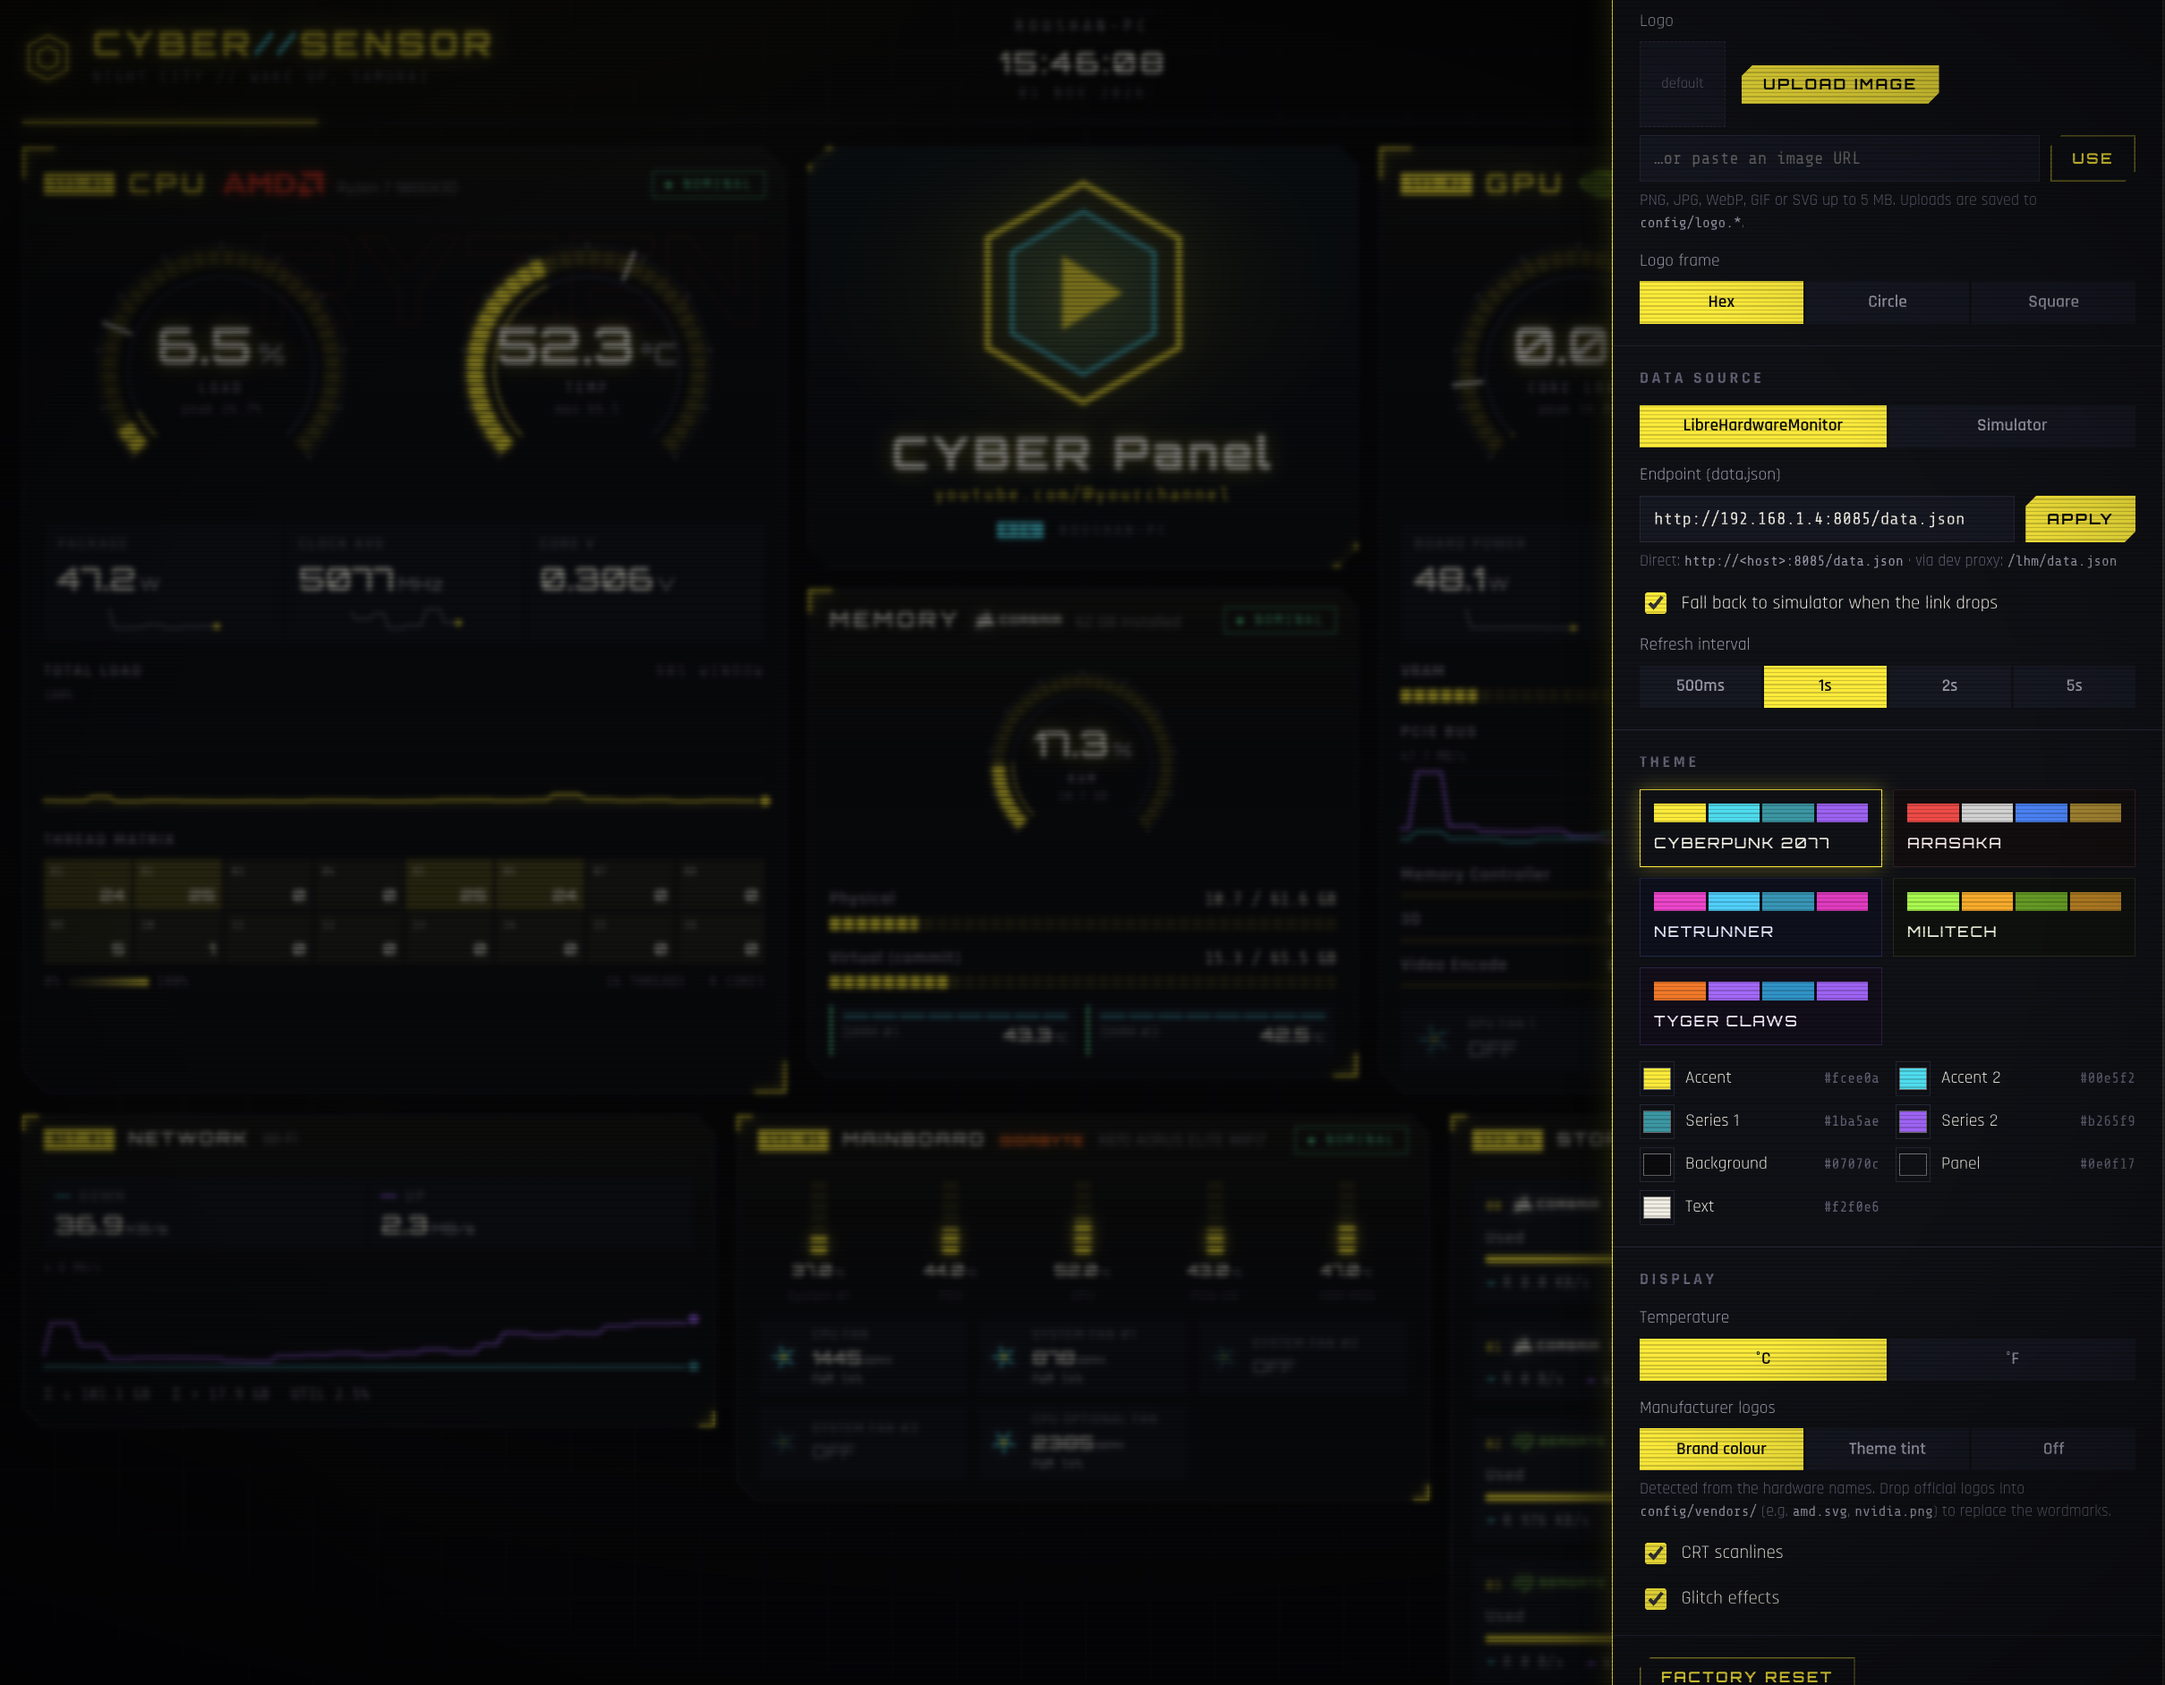
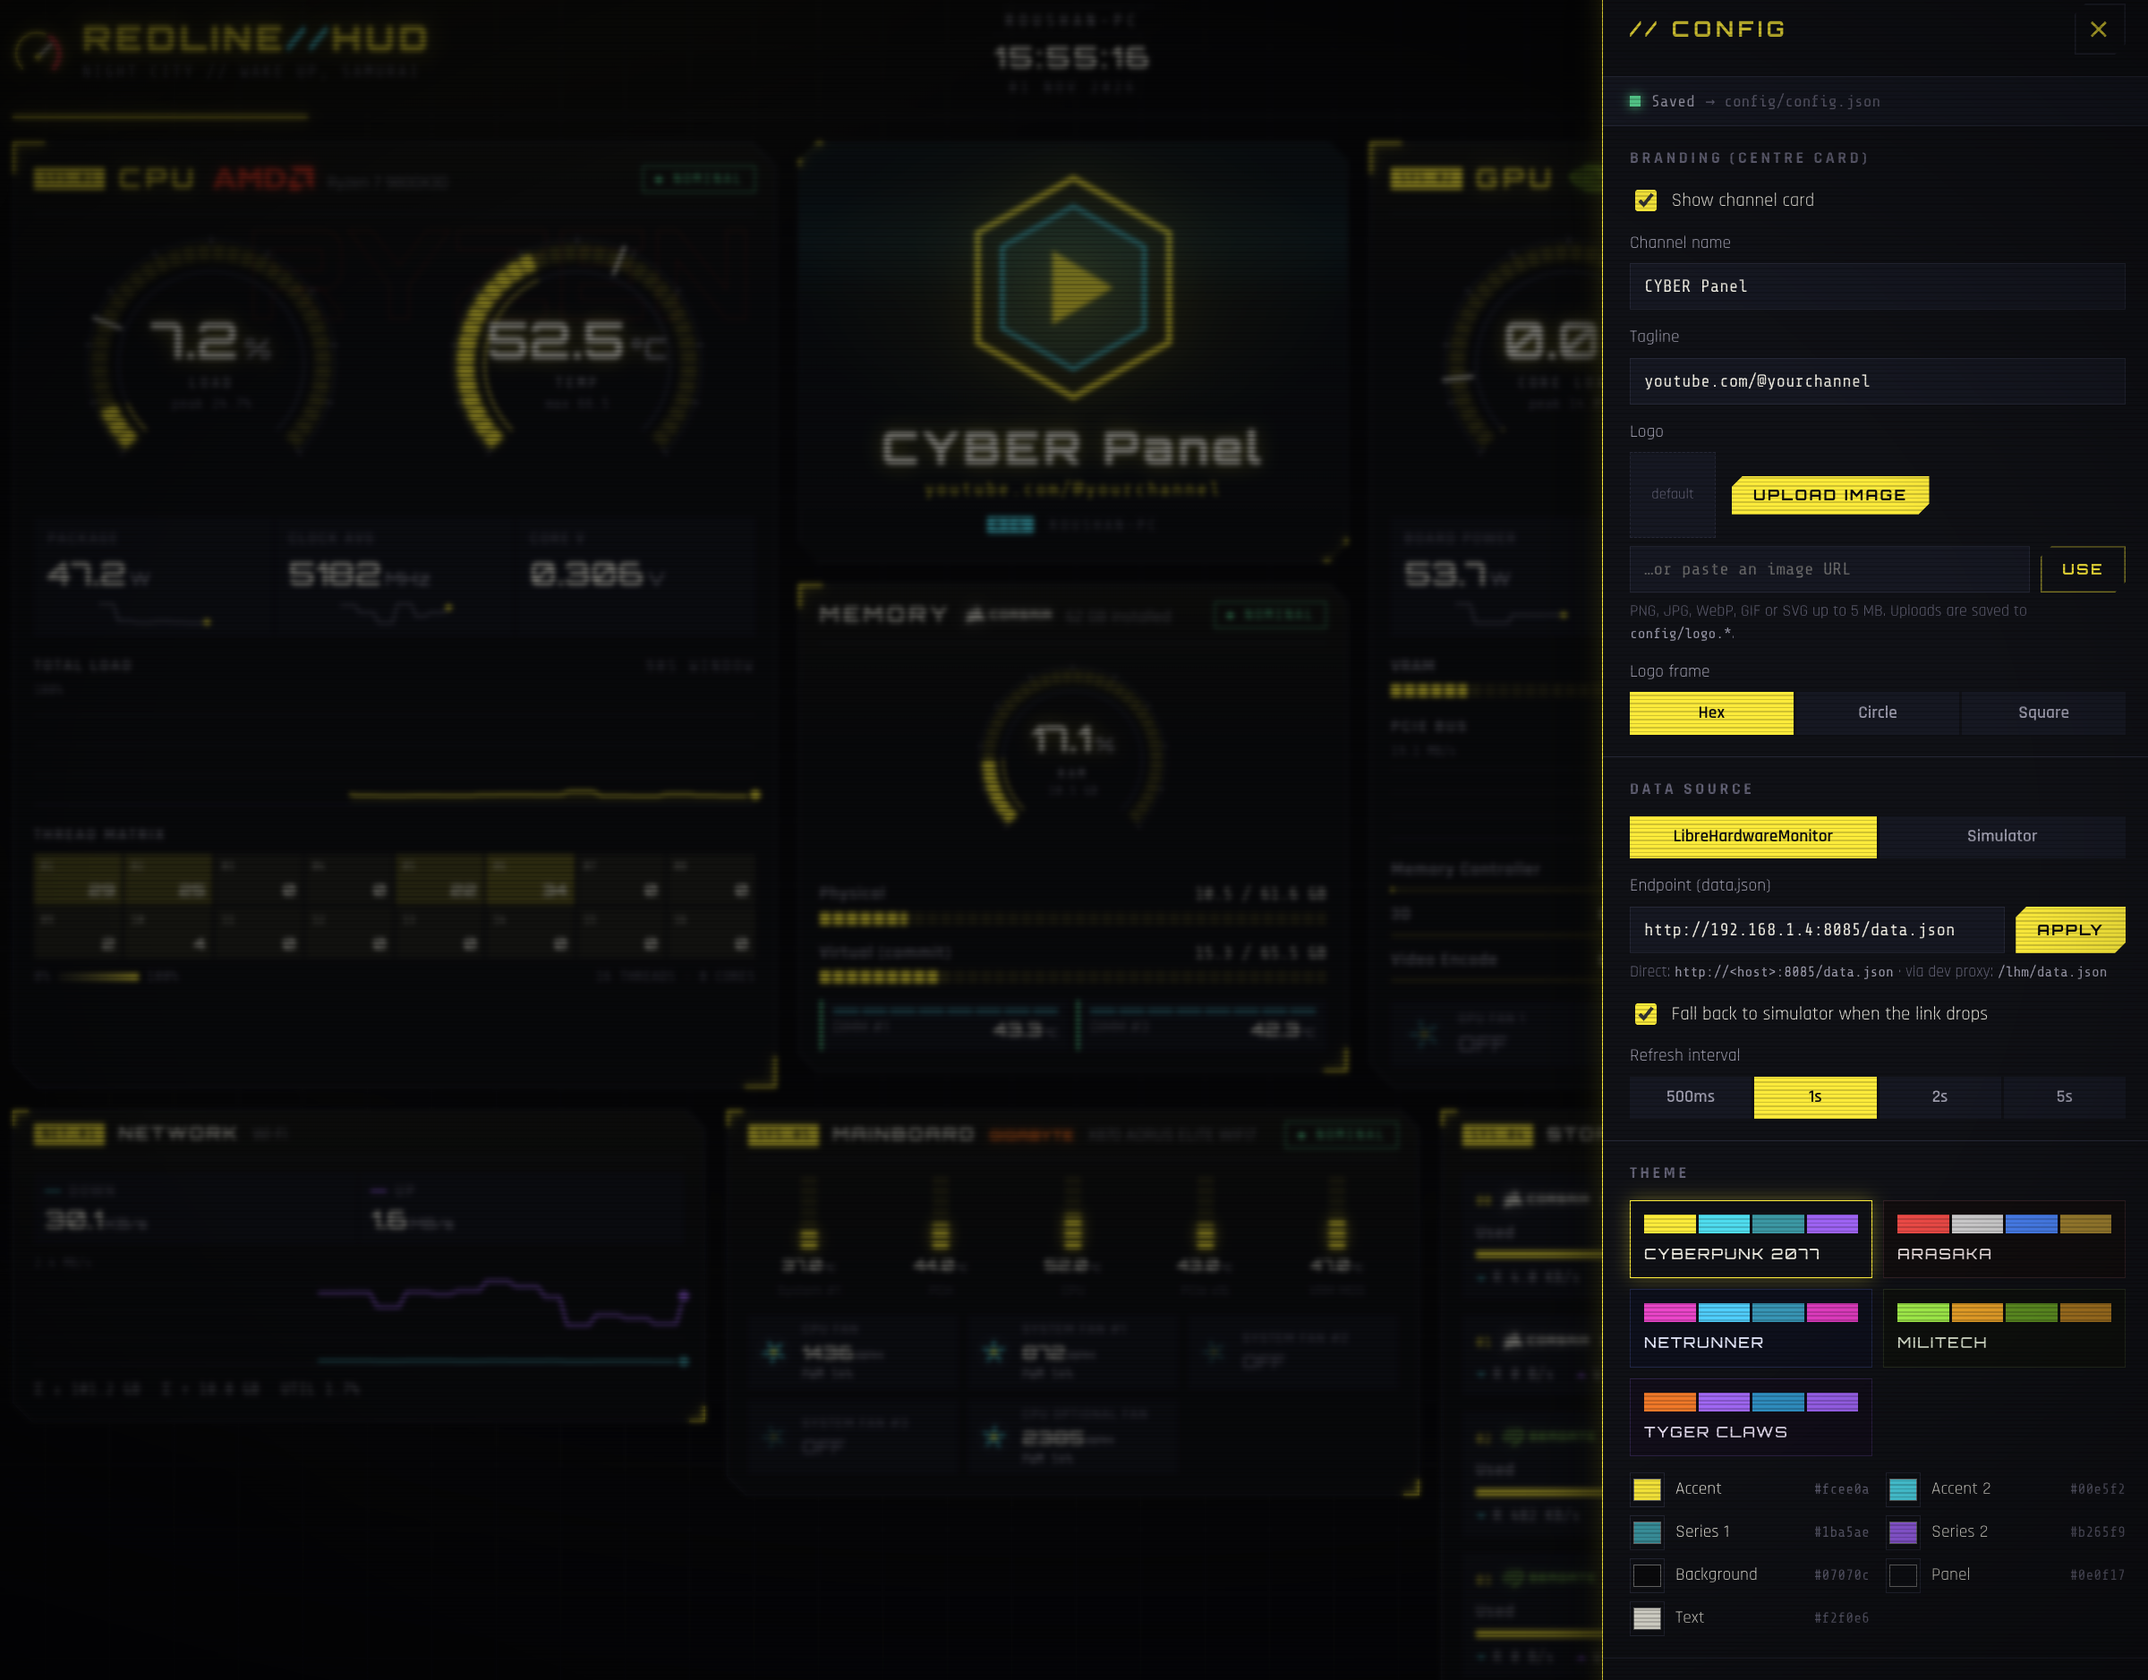
Add screenshots

diff --git a/src/components/Header.tsx b/src/components/Header.tsx
@@ -29,14 +29,17 @@ export function Header({ machine, link, latencyMs, error, themeTagline, onOpenSe
     <header className="hud">
       <div className="hud__brand">
         <span className="hud__logo" aria-hidden>
+          {/* tachometer: sweep, redline zone, needle pinned at the limit */}
           <svg viewBox="0 0 32 32">
-            <path d="M4 8 L16 2 L28 8 L28 24 L16 30 L4 24 Z" />
-            <path d="M10 12 L16 9 L22 12 L22 20 L16 23 L10 20 Z" />
+            <path d="M6.1 25.9 A13 13 0 0 1 20.5 4.8" />
+            <path className="hud__logo-red" d="M23.5 6.4 A13 13 0 0 1 25.9 25.9" />
+            <path className="hud__logo-needle" d="M16 19 L24 11" />
+            <circle cx="16" cy="19" r="2" />
           </svg>
         </span>
         <div>
-          <h1 className="hud__title glitch" data-text="CYBER//SENSOR">
-            CYBER<span>//</span>SENSOR
+          <h1 className="hud__title glitch" data-text="REDLINE//HUD">
+            REDLINE<span>//</span>HUD
           </h1>
           <p className="hud__tagline">{themeTagline}</p>
         </div>

diff --git a/src/lib/settings.ts b/src/lib/settings.ts
@@ -35,7 +35,8 @@ export interface Settings {
 export type SaveTarget = 'loading' | 'disk' | 'browser';
 export type SaveStatus = { target: SaveTarget; state: 'idle' | 'saving' | 'saved' | 'error'; error?: string };
 
-const KEY = 'cyber-sensor-panel:settings';
+const KEY = 'redline-hud:settings';
+const LEGACY_KEY = 'cyber-sensor-panel:settings'; // pre-rebrand name, read once on upgrade
 export const CONFIG_API = '/api/config';
 export const LOGO_API = '/api/logo';
 const SAVE_DEBOUNCE_MS = 400;
@@ -100,7 +101,7 @@ export function normaliseSettings(raw: unknown): Settings {
 
 function loadLocal(): Settings | null {
   try {
-    const raw = localStorage.getItem(KEY);
+    const raw = localStorage.getItem(KEY) ?? localStorage.getItem(LEGACY_KEY);
     return raw ? normaliseSettings(JSON.parse(raw)) : null;
   } catch {
     return null; // corrupted storage

diff --git a/src/styles.css b/src/styles.css
@@ -1,5 +1,5 @@
 /* =========================================================================
-   CYBER//SENSOR — base, HUD chrome, panel frame
+   REDLINE//HUD — base, HUD chrome, panel frame
    All colours come from --c-* tokens written by applyTheme().
    ========================================================================= */
 
@@ -147,6 +147,22 @@ small {
   stroke: var(--c-accent);
   stroke-width: 1.5;
   filter: drop-shadow(0 0 6px rgba(var(--c-glow-rgb), 0.6));
+  stroke-linecap: round;
+}
+
+.hud__logo .hud__logo-red {
+  stroke: var(--c-crit);
+  stroke-width: 3;
+}
+
+.hud__logo .hud__logo-needle {
+  stroke: var(--c-text);
+  stroke-width: 2;
+}
+
+.hud__logo circle {
+  fill: var(--c-accent);
+  stroke: none;
 }
 
 .hud__title {

diff --git a/index.html b/index.html
@@ -4,7 +4,8 @@
     <meta charset="UTF-8" />
     <meta name="viewport" content="width=device-width, initial-scale=1.0, viewport-fit=cover" />
     <meta name="theme-color" content="#0a0a12" />
-    <title>CYBER//SENSOR — Hardware Telemetry</title>
+    <title>REDLINE//HUD — Hardware Telemetry</title>
+    <link rel="icon" type="image/svg+xml" href="/favicon.svg" />
     <link rel="preconnect" href="https://fonts.googleapis.com" />
     <link rel="preconnect" href="https://fonts.gstatic.com" crossorigin />
     <link

diff --git a/server/configApi.ts b/server/configApi.ts
@@ -224,7 +224,7 @@ export function createConfigHandler(dir: string) {
 export function configApi(dir: string): Plugin {
   const handler = createConfigHandler(dir);
   return {
-    name: 'cyber-sensor-config-api',
+    name: 'redline-hud-config-api',
     configureServer(server) {
       server.middlewares.use(handler);
     },

diff --git a/server/__tests__/configApi.test.ts b/server/__tests__/configApi.test.ts
@@ -11,7 +11,7 @@ let server: Server;
 let base: string;
 
 beforeAll(async () => {
-  dir = await mkdtemp(path.join(tmpdir(), 'csp-config-'));
+  dir = await mkdtemp(path.join(tmpdir(), 'redline-config-'));
   const handler = createConfigHandler(dir);
   server = createServer((req, res) =>
     handler(req, res, () => {

diff --git a/src/widgets.css b/src/widgets.css
@@ -1,5 +1,5 @@
 /* =========================================================================
-   CYBER//SENSOR — widgets
+   REDLINE//HUD — widgets
    ========================================================================= */
 
 /* ---------- radial gauge ---------- */

diff --git a/README.md b/README.md
@@ -1,8 +1,8 @@
-# CYBER//SENSOR
+# REDLINE//HUD
 
 A futuristic, themeable hardware-telemetry panel for [LibreHardwareMonitor](https://github.com/LibreHardwareMonitor/LibreHardwareMonitor), built with React + Vite. Its default look is inspired by Cyberpunk 2077.
 
-![CYBER//SENSOR dashboard in the Tyger Claws theme: CPU and GPU gauges, channel card, memory, network, mainboard and storage cards with manufacturer logos](docs/screenshots/dashboard-tyger-claws.png)
+![REDLINE//HUD dashboard in the default Cyberpunk 2077 theme: CPU and GPU gauges, channel card, memory, network, mainboard and storage cards with manufacturer logos](docs/screenshots/dashboard.png)
 
 - **Built for gamers.** CPU and GPU get the big cards, memory comes next, and everything else is compact.
 - **Your channel in the middle.** Show your channel name, tagline and logo in the centre of the panel. It's made for streaming overlays and desk displays.
@@ -12,7 +12,7 @@ A futuristic, themeable hardware-telemetry panel for [LibreHardwareMonitor](http
 - **Settings are saved to `config/config.json`** on disk, so the panel looks the same on every machine that opens it.
 
 <p align="center">
-  <img src="docs/screenshots/settings.png" alt="Settings drawer: channel logo upload, LibreHardwareMonitor endpoint, refresh interval, theme picker with colour overrides, and display options" width="85%">
+  <img src="docs/screenshots/settings.png" alt="Settings drawer: save status, channel name, tagline and logo, LibreHardwareMonitor endpoint, refresh interval, and theme picker with colour overrides" width="85%">
 </p>
 
 ## Quick start
